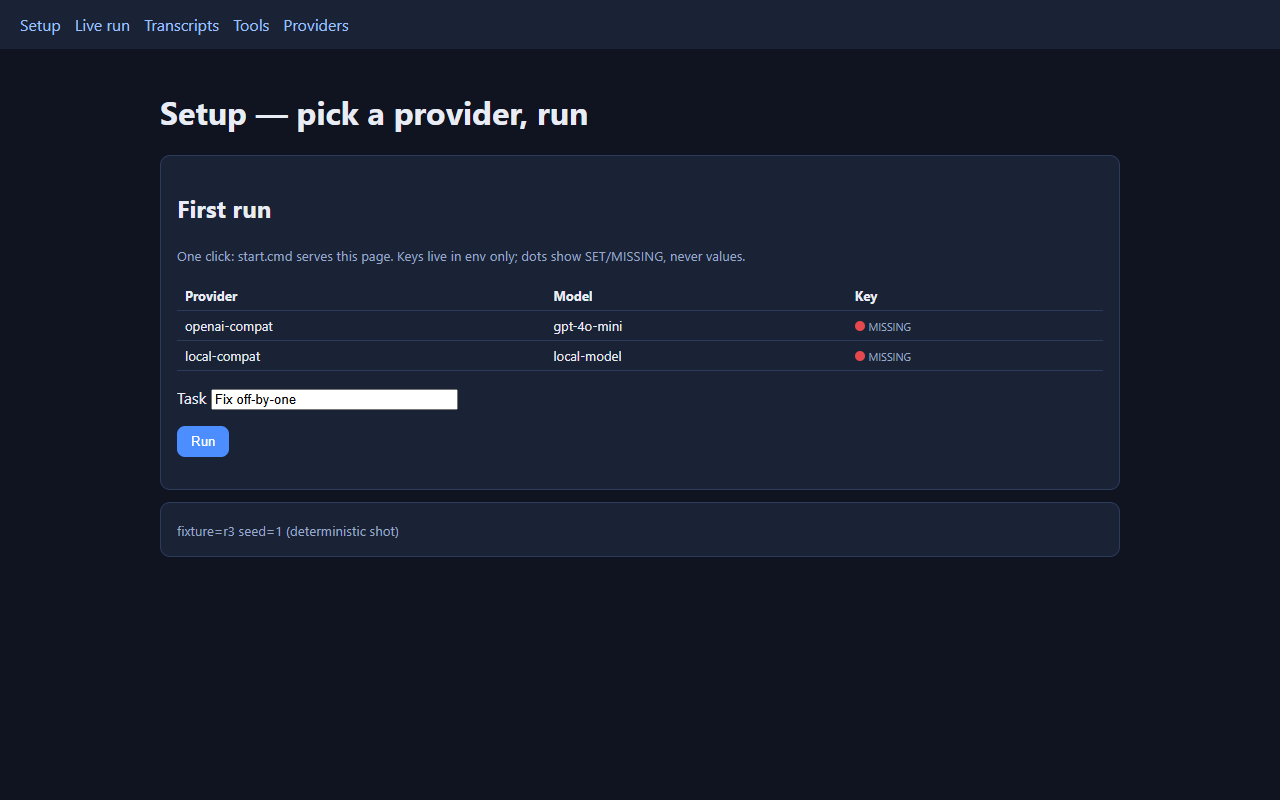
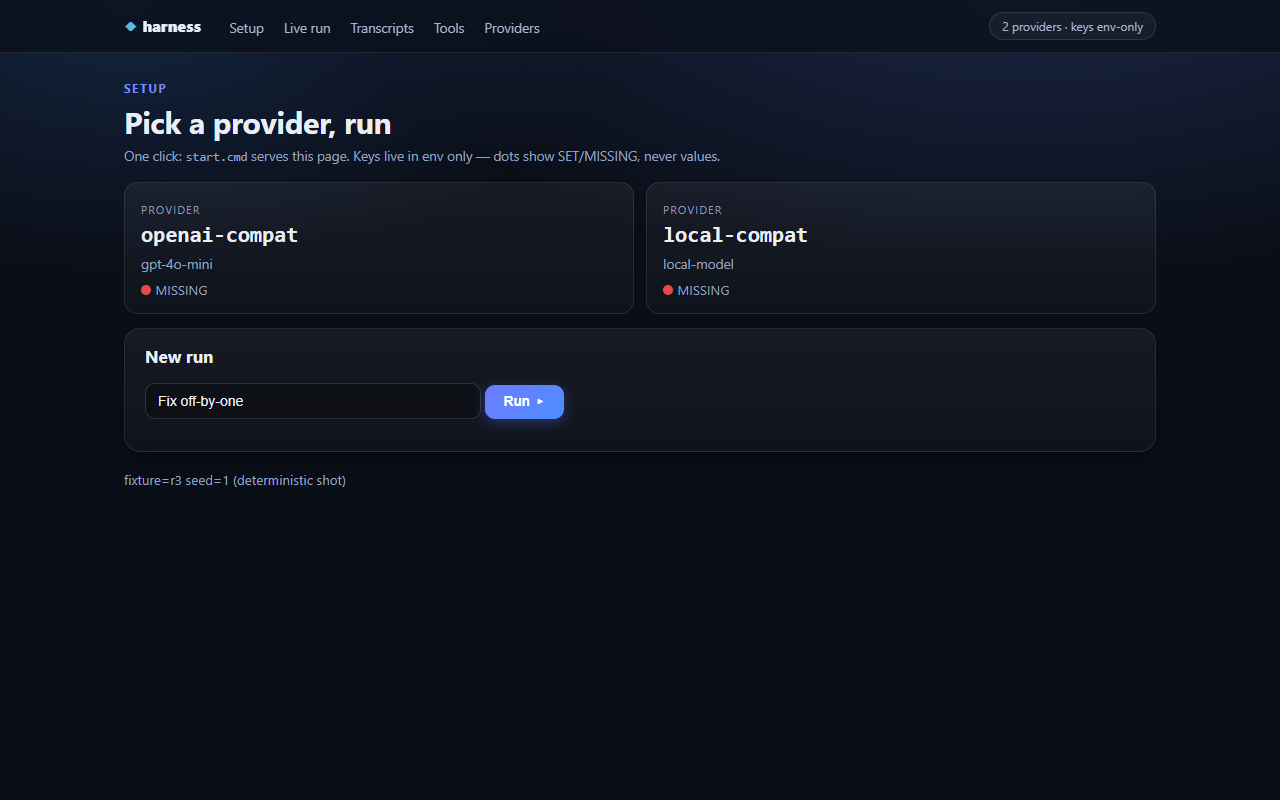
feat(harness): dark glass board revamp with before/after shots

Changed region(s): [[0.0938, 0.0938, 0.875, 0.7188], [0.0312, 0.0, 0.5312, 0.0625], [0.7812, 0.0312, 0.875, 0.0938]]

diff --git a/ui_server.py b/ui_server.py
@@ -20,23 +20,65 @@ ROOT = Path(__file__).resolve().parent
 if str(ROOT) not in sys.path:
     sys.path.insert(0, str(ROOT))
 STOP_FILE = ROOT / ".tmp_runs" / "ui.STOP"
-CSS = ("body{font-family:system-ui,Segoe UI,Roboto,Arial,sans-serif;margin:0;"
-       "background:#0f1420;color:#e8ecf4}header{padding:14px 20px;background:#1a2236}"
-       "nav a{color:#9fc1ff;margin-right:14px;text-decoration:none}"
-       ".wrap{max-width:960px;margin:0 auto;padding:20px}.card{background:#1a2236;"
-       "border:1px solid #2c3a5c;border-radius:10px;padding:16px;margin:12px 0}"
+CSS = (":root{color-scheme:dark}*{box-sizing:border-box}"
+       "body{font-family:ui-sans-serif,system-ui,'Segoe UI',Roboto,Inter,Arial,sans-serif;"
+       "margin:0;color:#e9eef7;min-height:100vh;"
+       "background:radial-gradient(1200px 600px at 80% -10%,#1c2a4d 0%,transparent 60%),"
+       "radial-gradient(900px 500px at 10% 0%,#14243f 0%,transparent 55%),#0a0e17}"
+       "header.top{position:sticky;top:0;z-index:10;backdrop-filter:blur(14px);"
+       "background:rgba(10,14,23,.72);border-bottom:1px solid rgba(255,255,255,.08)}"
+       ".bar{max-width:1080px;margin:0 auto;padding:12px 24px;display:flex;"
+       "align-items:center;gap:8px}"
+       ".brand{font-weight:800;font-size:15px;letter-spacing:.02em;margin-right:10px}"
+       ".brand i{font-style:normal;background:linear-gradient(135deg,#7c8cff,#38e1c6);"
+       "-webkit-background-clip:text;background-clip:text;color:transparent}"
+       "nav a{color:#a9b6d3;text-decoration:none;font-size:13.5px;padding:6px 10px;"
+       "border-radius:8px}nav a:hover{color:#fff;background:rgba(255,255,255,.06)}"
+       ".pill{margin-left:auto;font-size:12px;color:#a9b6d3;border:1px solid "
+       "rgba(255,255,255,.1);padding:5px 12px;border-radius:999px;"
+       "background:rgba(255,255,255,.04);white-space:nowrap}"
+       ".wrap{max-width:1080px;margin:0 auto;padding:28px 24px 64px}"
+       ".eyebrow{font-size:11.5px;letter-spacing:.14em;text-transform:uppercase;"
+       "color:#7c8cff;font-weight:700;margin:0 0 6px}"
+       "h1{font-size:30px;margin:0 0 4px;letter-spacing:-.01em}"
+       ".sub{color:#93a1c0;font-size:13.5px;margin:0 0 18px}"
+       ".grid{display:grid;grid-template-columns:repeat(auto-fit,minmax(170px,1fr));"
+       "gap:12px;margin:14px 0}"
+       ".stat{background:linear-gradient(180deg,rgba(255,255,255,.055),rgba(255,255,255,.02));"
+       "border:1px solid rgba(255,255,255,.09);border-radius:14px;padding:14px 16px}"
+       ".stat b{display:block;font-size:22px;margin-top:4px}"
+       ".stat>span{font-size:11px;letter-spacing:.1em;text-transform:uppercase;color:#8b98b8}"
+       ".card{background:linear-gradient(180deg,rgba(255,255,255,.05),rgba(255,255,255,.018));"
+       "border:1px solid rgba(255,255,255,.09);border-radius:16px;padding:16px 20px;"
+       "margin:14px 0;box-shadow:0 12px 32px rgba(0,0,0,.35)}"
+       ".card h2{margin:0 0 8px;font-size:17px}"
        ".dot{display:inline-block;width:10px;height:10px;border-radius:50%}"
-       ".ok{color:#3ddc84}.bad{color:#e5484d}.okbg{background:#3ddc84}"
-       ".miss{background:#e5484d}table{width:100%;"
-       "border-collapse:collapse}td,th{border-bottom:1px solid #2c3a5c;"
-       "padding:6px 8px;text-align:left;font-size:13px}.btn{background:#4c8dff;"
-       "color:#fff;border:0;border-radius:8px;padding:8px 14px;cursor:pointer}"
-       "form.inline{display:inline}.kill{background:#e5484d}.bar{height:8px;background:#2c3a5c;"
-       "border-radius:4px;overflow:hidden}.bar>i{display:block;height:8px;"
-       "background:#4c8dff}small{color:#9aa7c7}"
-       ".banner{border:1px solid #e5484d;border-radius:8px;padding:10px 14px;margin:12px 0}"
-       "input[type=text]{background:#0f1420;color:#e8ecf4;border:1px solid #2c3a5c;"
-       "border-radius:6px;padding:6px 10px}")
+       ".okbg{background:#3ddc84}.miss{background:#e5484d}"
+       "table{width:100%;border-collapse:separate;border-spacing:0;font-size:13.5px}"
+       "th{font-size:11px;letter-spacing:.1em;text-transform:uppercase;color:#8b98b8;"
+       "text-align:left;padding:10px 12px;border-bottom:1px solid rgba(255,255,255,.1)}"
+       "td{padding:8px 12px;border-bottom:1px solid rgba(255,255,255,.06)}"
+       "tr:last-child td{border-bottom:0}tbody tr:hover{background:rgba(255,255,255,.03)}"
+       ".mono{font-family:ui-monospace,SFMono-Regular,Consolas,monospace;font-size:12.5px}"
+       ".tag{display:inline-block;font-size:11.5px;font-weight:700;padding:3px 10px;"
+       "border-radius:999px;white-space:nowrap}"
+       ".tag.ok{color:#4ade80;background:rgba(74,222,128,.12);border:1px solid rgba(74,222,128,.35)}"
+       ".tag.bad{color:#ff7a90;background:rgba(255,90,120,.12);border:1px solid rgba(255,90,120,.35)}"
+       ".tag.info{color:#9fc1ff;background:rgba(124,140,255,.12);border:1px solid rgba(124,140,255,.35)}"
+       ".ok{color:#4ade80}.bad{color:#ff7a90}"
+       ".btn{background:linear-gradient(135deg,#6d7cff,#4c8dff);color:#fff;border:0;"
+       "border-radius:10px;padding:9px 18px;cursor:pointer;font-weight:700;font-size:13.5px;"
+       "box-shadow:0 4px 14px rgba(90,110,255,.35)}"
+       "form.inline{display:inline}.kill{background:linear-gradient(135deg,#f0526b,#d63a56);"
+       "box-shadow:0 4px 14px rgba(240,82,107,.3)}"
+       ".pbar{height:10px;background:rgba(255,255,255,.07);border-radius:999px;overflow:hidden}"
+       ".pbar>i{display:block;height:10px;background:linear-gradient(90deg,#6d7cff,#38e1c6);"
+       "border-radius:999px;box-shadow:0 0 12px rgba(80,140,255,.6)}"
+       "small{color:#93a1c0}"
+       ".banner{border:1px solid rgba(240,82,107,.5);background:rgba(240,82,107,.08);"
+       "border-radius:12px;padding:12px 16px;margin:12px 0}"
+       "input[type=text]{background:rgba(0,0,0,.3);color:#e9eef7;"
+       "border:1px solid rgba(255,255,255,.14);border-radius:10px;padding:9px 12px;font-size:14px}")
 
 
 def _fixture(query: dict) -> str:
@@ -68,18 +110,23 @@ def _key_dot(env_name: str) -> str:
 
 
 def _nav() -> str:
-    return ("<header><nav><a href='/'>Setup</a><a href='/run?fixture=r3&seed=1'>"
+    count = len(_providers())
+    return ("<header class='top'><div class='bar'>"
+            "<span class='brand'><i>◆</i> harness</span>"
+            "<nav><a href='/'>Setup</a><a href='/run?fixture=r3&seed=1'>"
             "Live run</a><a href='/runs'>Transcripts</a>"
-            "<a href='/tools'>Tools</a><a href='/settings'>Providers</a>"
-            "</nav></header>")
+            "<a href='/tools'>Tools</a><a href='/settings'>Providers</a></nav>"
+            "<span class='pill'>%d providers · keys env-only</span>"
+            "</div></header>" % count)
 
 
-def _page(title: str, body: str) -> bytes:
+def _page(title: str, body: str, eyebrow: str = "agent harness") -> bytes:
     doc = ("<!doctype html><html><head><meta charset='utf-8'>"
            "<link rel='icon' href='data:,'>"
-           "<title>%s</title><style>%s</style></head>"
-           "<body>%s<div class='wrap'><h1>%s</h1>%s</div></body></html>"
-           % (html.escape(title), CSS, _nav(), html.escape(title), body))
+           "<title>%s · harness</title><style>%s</style></head>"
+           "<body>%s<div class='wrap'><p class='eyebrow'>%s</p><h1>%s</h1>%s</div></body></html>"
+           % (html.escape(title), CSS, _nav(), html.escape(eyebrow),
+              html.escape(title), body))
     return doc.encode("utf-8")
 
 
@@ -94,27 +141,28 @@ def _stop_banner() -> str:
 
 def _setup(query: dict) -> bytes:
     fixture = _fixture(query)
-    rows = []
+    cards = []
     for entry in _providers():
         if not isinstance(entry, dict):
             continue
         name = html.escape(str(entry.get("name", "")))
         model = html.escape(str(entry.get("model", "")))
-        rows.append("<tr><td>%s</td><td>%s</td><td>%s</td></tr>"
-                    % (name, model, _key_dot(str(entry.get("api_key_env", "")))))
-    body = ("<div class='card'><h2>First run</h2>"
-            "<p><small>One click: start.cmd serves this page. "
-            "Keys live in env only; dots show SET/MISSING, never values.</small></p>"
-            "<table><tr><th>Provider</th><th>Model</th><th>Key</th></tr>%s</table>"
+        cards.append("<div class='stat'><span>provider</span><b class='mono'>%s</b>"
+                     "<p class='sub' style='margin:6px 0'>%s</p>%s</div>"
+                     % (name, model, _key_dot(str(entry.get("api_key_env", "")))))
+    body = ("<p class='sub'>One click: <span class='mono'>start.cmd</span> serves this page. "
+            "Keys live in env only — dots show SET/MISSING, never values.</p>"
+            "<div class='grid'>%s</div>"
+            "<div class='card'><h2>New run</h2>"
             "<form action='/run' method='get'>"
             "<input type='hidden' name='fixture' value='r3'>"
             "<input type='hidden' name='seed' value='1'>"
-            "<p>Task <input name='task' value='Fix off-by-one' size='30'></p>"
-            "<p><button class='btn' type='submit'>Run</button></p></form></div>"
-            % "".join(rows))
+            "<p><input type='text' name='task' value='Fix off-by-one' size='40'> "
+            "<button class='btn' type='submit'>Run ▸</button></p></form></div>"
+            % "".join(cards))
     if fixture:
-        body += "<div class='card'><small>fixture=%s seed=1 (deterministic shot)</small></div>" % html.escape(fixture)
-    return _page("Setup — pick a provider, run", body)
+        body += "<p><small>fixture=%s seed=1 (deterministic shot)</small></p>" % html.escape(fixture)
+    return _page("Pick a provider, run", body, eyebrow="setup")
 
 
 def _run(query: dict) -> bytes:
@@ -125,28 +173,36 @@ def _run(query: dict) -> bytes:
     toks = _mask(fixture, "238")
     kill = ("<form class='inline' action='/stop' method='post'>"
             "<button class='btn kill' type='submit'>Kill</button></form>")
-    rows = ("<tr><td>1</td><td>test</td><td>FAIL then PASS</td>"
-            "<td class='bad'>no</td><td>%s</td><td>%s</td></tr>"
-            "<tr><td>2</td><td>read</td><td>app.py (UNTRUSTED)</td>"
-            "<td class='ok'>ok</td><td>%s</td><td>%s</td></tr>"
-            "<tr><td>3</td><td>edit</td><td>app.py</td><td class='ok'>ok</td>"
-            "<td>%s</td><td>%s</td></tr>"
-            "<tr><td>4</td><td>test</td><td>PASS</td><td class='ok'>ok</td>"
-            "<td>%s</td><td>%s</td></tr>") % (secs, kill, toks, kill, toks, kill, secs, kill)
+    rows = ("<tbody><tr><td class='mono'>1</td><td class='mono'>test</td><td>FAIL then PASS</td>"
+            "<td><span class='tag bad'>no</span></td><td class='mono'>%s</td><td>%s</td></tr>"
+            "<tr><td class='mono'>2</td><td class='mono'>read</td><td>app.py "
+            "<span class='tag warn'>UNTRUSTED</span></td>"
+            "<td><span class='tag ok'>ok</span></td><td class='mono'>%s</td><td>%s</td></tr>"
+            "<tr><td class='mono'>3</td><td class='mono'>edit</td><td class='mono'>app.py</td>"
+            "<td><span class='tag ok'>ok</span></td>"
+            "<td class='mono'>%s</td><td>%s</td></tr>"
+            "<tr><td class='mono'>4</td><td class='mono'>test</td><td>PASS</td>"
+            "<td><span class='tag ok'>ok</span></td>"
+            "<td class='mono'>%s</td><td>%s</td></tr></tbody>") % (secs, kill, toks, kill, toks, kill, secs, kill)
     stop_form = ("<form action='/stop' method='post'>"
                  "<p><button class='btn kill' type='submit'>■ Stop</button> "
                  "<small>writes STOP, poll-kill exec, transcript flushed</small></p></form>")
-    body = ("<div class='card'><h2>Task: %s</h2>"
-            "<p><small>verdict PASS · steps 4 · tokens %s · "
-            "every row logged action-before-exec · STOP kills mid-exec</small></p>"
-            "<div class='bar'><i style='width:64%%'></i></div>"
+    body = ("<p class='sub'>Task: <b>%s</b> · every row logged action-before-exec · "
+            "STOP kills mid-exec</p>"
+            "<div class='grid'>"
+            "<div class='stat'><span>verdict</span><b class='ok'>PASS</b></div>"
+            "<div class='stat'><span>steps</span><b>4</b></div>"
+            "<div class='stat'><span>tokens</span><b class='mono'>%s</b></div>"
+            "<div class='stat'><span>tools</span><b class='mono'>4</b></div>"
+            "</div>"
+            "<div class='card'><div class='pbar'><i style='width:64%%'></i></div>"
             "%s%s</div>"
             "<div class='card'><table><tr><th>seq</th><th>tool</th><th>args</th>"
             "<th>ok</th><th>cost</th><th></th></tr>%s</table>"
             "<p><small>rendered %s · fixture r3 FAIL-then-PASS</small></p></div>"
             % (task, toks, _stop_banner(), stop_form, rows,
                html.escape(_time.strftime("%H:%M:%S") if not fixture else "seed=1")))
-    return _page("Live run", body)
+    return _page("Live run", body, eyebrow="run")
 
 
 def _runs(query: dict | None = None, note: str = "") -> bytes:
@@ -154,21 +210,29 @@ def _runs(query: dict | None = None, note: str = "") -> bytes:
     rows = []
     for path in sorted((ROOT / "transcripts").glob("*.jsonl")):
         verdict, steps = _verdict(path)
-        vcls = "ok" if verdict == "PASS" else ("bad" if verdict else "")
-        rows.append("<tr><td>%s</td><td class='%s'>%s</td><td>%d</td>"
+        if verdict == "PASS":
+            pill = "<span class='tag ok'>PASS</span>"
+        elif verdict == "FAIL":
+            pill = "<span class='tag bad'>FAIL</span>"
+        elif verdict == "BUDGET_KILLED":
+            pill = "<span class='tag warn'>BUDGET_KILLED</span>"
+        else:
+            pill = "<span class='tag info'>%s</span>" % html.escape(verdict)
+        rows.append("<tr><td class='mono'>%s</td><td>%s</td><td class='mono'>%d</td>"
                     "<td><form class='inline' action='/replay' method='post'>"
                     "<input type='hidden' name='file' value='%s'>"
                     "<button class='btn' type='submit'>Replay verify</button>"
                     "</form></td></tr>"
-                    % (html.escape(path.name), vcls, html.escape(verdict),
-                       steps, html.escape(path.name)))
+                    % (html.escape(path.name), pill, steps, html.escape(path.name)))
     if not rows:
         rows.append("<tr><td colspan='4'><small>no transcripts yet</small></td></tr>")
     if note:
         rows.append("<tr><td colspan='4'>%s</td></tr>" % note)
-    return _page("Transcripts", "<div class='card'><table>"
+    return _page("Transcripts", "<p class='sub'>Every run, replayable from the log alone. "
+                 "Pick one to re-verify.</p>"
+                 "<div class='card'><table>"
                  "<tr><th>file</th><th>verdict</th><th>steps</th><th></th></tr>"
-                 "%s</table></div>" % "".join(rows))
+                 "<tbody>%s</tbody></table></div>" % "".join(rows), eyebrow="history")
 
 
 def _verdict(path: Path):
@@ -200,18 +264,20 @@ def _tools() -> bytes:
             jail = "DENIED (../ refused)"
     except Exception as exc:  # noqa: BLE001 - status page reports, never raises
         jail = "error: %s" % html.escape(str(exc)[:120])
-    rows = "".join("<tr><td>%s</td><td>%s</td><td>logged</td></tr>" % (k, v) for k, v in (
+    rows = "".join("<tr><td class='mono'>%s</td><td>%s</td>"
+                    "<td><span class='tag ok'>logged</span></td></tr>" % (k, v) for k, v in (
         ("read", "jail + size-cap"), ("edit", "jail + atomic write"),
         ("exec", "jail + allow-list + poll-kill"), ("test", "jail + pinned pytest + poll-kill"),
         ("web", "DENY by policy"), ("delegate_fg", "in-process data-only (4k cap)"),
         ("delegate_bg", "in-process data-only + poll-slice STOP"),
         ("wait", "budgeted, no side effects"), ("finish", "logged verdict")))
-    body = ("<div class='card'><p><small>jail root: project dir · %s · "
-            "exec: python -P file-only, pytest pinned, poll-kill 0.2s slices · "
-            "escape suite: pytest tests/test_escape.py</small></p>"
-            "<table><tr><th>tool</th><th>sandbox</th><th>logging</th></tr>%s</table></div>"
+    body = ("<p class='sub'>jail root: project dir · %s · exec: python -P file-only, "
+            "pytest pinned, poll-kill 0.2s slices · "
+            "escape suite: <span class='mono'>pytest tests/test_escape.py</span></p>"
+            "<div class='card'><table><tr><th>tool</th><th>sandbox</th><th>logging</th></tr>"
+            "<tbody>%s</tbody></table></div>"
             % (html.escape(jail), rows))
-    return _page("Tools & sandbox", body)
+    return _page("Tools & sandbox", body, eyebrow="sandbox")
 
 
 def _replay_result(name: str) -> tuple:
@@ -250,20 +316,20 @@ def _bad(message: str) -> bytes:
 
 
 def _settings() -> bytes:
-    rows = []
+    cards = []
     for entry in _providers():
         if not isinstance(entry, dict):
             continue
-        rows.append("<tr><td>%s</td><td>%s</td><td>%s</td><td>%s</td></tr>"
-                    % (html.escape(str(entry.get("name", ""))),
-                       html.escape(str(entry.get("base_url", ""))[:48]),
-                       html.escape(str(entry.get("model", ""))),
-                       _key_dot(str(entry.get("api_key_env", "")))))
-    body = ("<div class='card'><p><small>Swap = one JSON entry in providers.json; "
-            "keys env-only. Mid-task swap survives via wait + fallback.</small></p>"
-            "<table><tr><th>name</th><th>base_url</th><th>model</th><th>key</th></tr>"
-            "%s</table></div>" % "".join(rows))
-    return _page("Providers", body)
+        cards.append("<div class='stat'><span>provider</span><b class='mono'>%s</b>"
+                     "<p class='sub' style='margin:6px 0'><span class='mono'>%s</span><br>%s</p>%s</div>"
+                     % (html.escape(str(entry.get("name", ""))),
+                        html.escape(str(entry.get("base_url", ""))[:48]),
+                        html.escape(str(entry.get("model", ""))),
+                        _key_dot(str(entry.get("api_key_env", "")))))
+    body = ("<p class='sub'>Swap = one JSON entry in providers.json; keys env-only. "
+            "Mid-task swap survives via wait + fallback.</p>"
+            "<div class='grid'>%s</div>" % "".join(cards))
+    return _page("Providers", body, eyebrow="providers")
 
 
 class Handler(BaseHTTPRequestHandler):

diff --git a/.aikit/decisions.md b/.aikit/decisions.md
@@ -96,6 +96,13 @@ contract, a dependency, a data format or the architecture; IDs are consecutive a
 - **Decision**: POST `/stop` writes `.tmp_runs/ui.STOP` and the run page shows a red STOPPED banner with Clear (POST `/clear`); POST `/replay?file=` verifies that transcript in-process and renders PASS/FAIL inline, 400 on bad names; inline favicon (`data:,`) kills the 404; green/red status text on run rows and transcript verdicts; smoke covers all four POST paths.
 - **Consequences**: Every visible control now does something real with no new dependencies; screenshots re-captured (S2/S3 after-shots changed, S1/S4/S5 identical).
 
+### ADR-009: Board visual revamp (dark glass)
+- **Date**: 2026-11-04
+- **Status**: Accepted (answers "is that aesthetic?" with a no, then a revamp; G-002/G-003)
+- **Context**: The working board read as admin-panel tables: flat cards, system look, no brand, uppercase-URL and cut-off-row nits found in screenshots.
+- **Decision**: Sticky glass header with ◆ harness brand + provider pill; eyebrow + hero titles; stat-card row on /run (verdict/steps/tokens/tools); gradient progress bar; pill verdicts (PASS/BUDGET_KILLED), mono tool/file names, row hover; provider cards on / and /settings; tighter table density so all 11 transcript rows fit 800px; scoped `.stat>span` so URLs keep case. Same five routes, same POST contracts, no new deps.
+- **Consequences**: S1–S5 after-shots re-captured (before-shots stay as the old-design record); 40/40 pytest, 5/5 gates green.
+
 <!-- Entry format:
 ### ADR-NNN: <decision in one line>
 - **Date**: YYYY-MM-DD

diff --git a/.aikit/codebase_map.md b/.aikit/codebase_map.md
@@ -10,7 +10,7 @@
 - **Total Classes**: `3`
 - **Total Top-Level Functions**: `137`
 - **Total Class Methods**: `16`
-- **Total Source Lines**: `2896`
+- **Total Source Lines**: `2962`
 
 ---
 
@@ -517,7 +517,7 @@
 ### [`ui_server.py`](ui_server.py)
 > *Board UI: stdlib http.server, five routes, fixture-masked shots.*
 
-**Size**: `421` lines (`18206` bytes)
+**Size**: `487` lines (`23074` bytes)
 
 **Classes:**
 - `class Handler`
@@ -532,7 +532,7 @@
 - `def _providers()`
 - `def _key_dot(env_name)`
 - `def _nav()`
-- `def _page(title, body)`
+- `def _page(title, body, eyebrow)`
 - `def _stop_banner()`
 - `def _setup(query)`
 - `def _run(query)`

diff --git a/.aikit/guidelines.md b/.aikit/guidelines.md
@@ -11,3 +11,4 @@ without modifying or quarantining that file; older versions migrate when a migra
 ## Rules
 - **G-001** (person): Every UI change captures before and after screenshots under assets/screenshots/ and analyzes both against the contract proofs before ui finish.
 - **G-002** (user): Board UI stays simple, aesthetic, easy to use, and functional: one task box, visible tools, working buttons.
+- **G-003** (user): Every UI change ships with before and after screenshots proving it.
